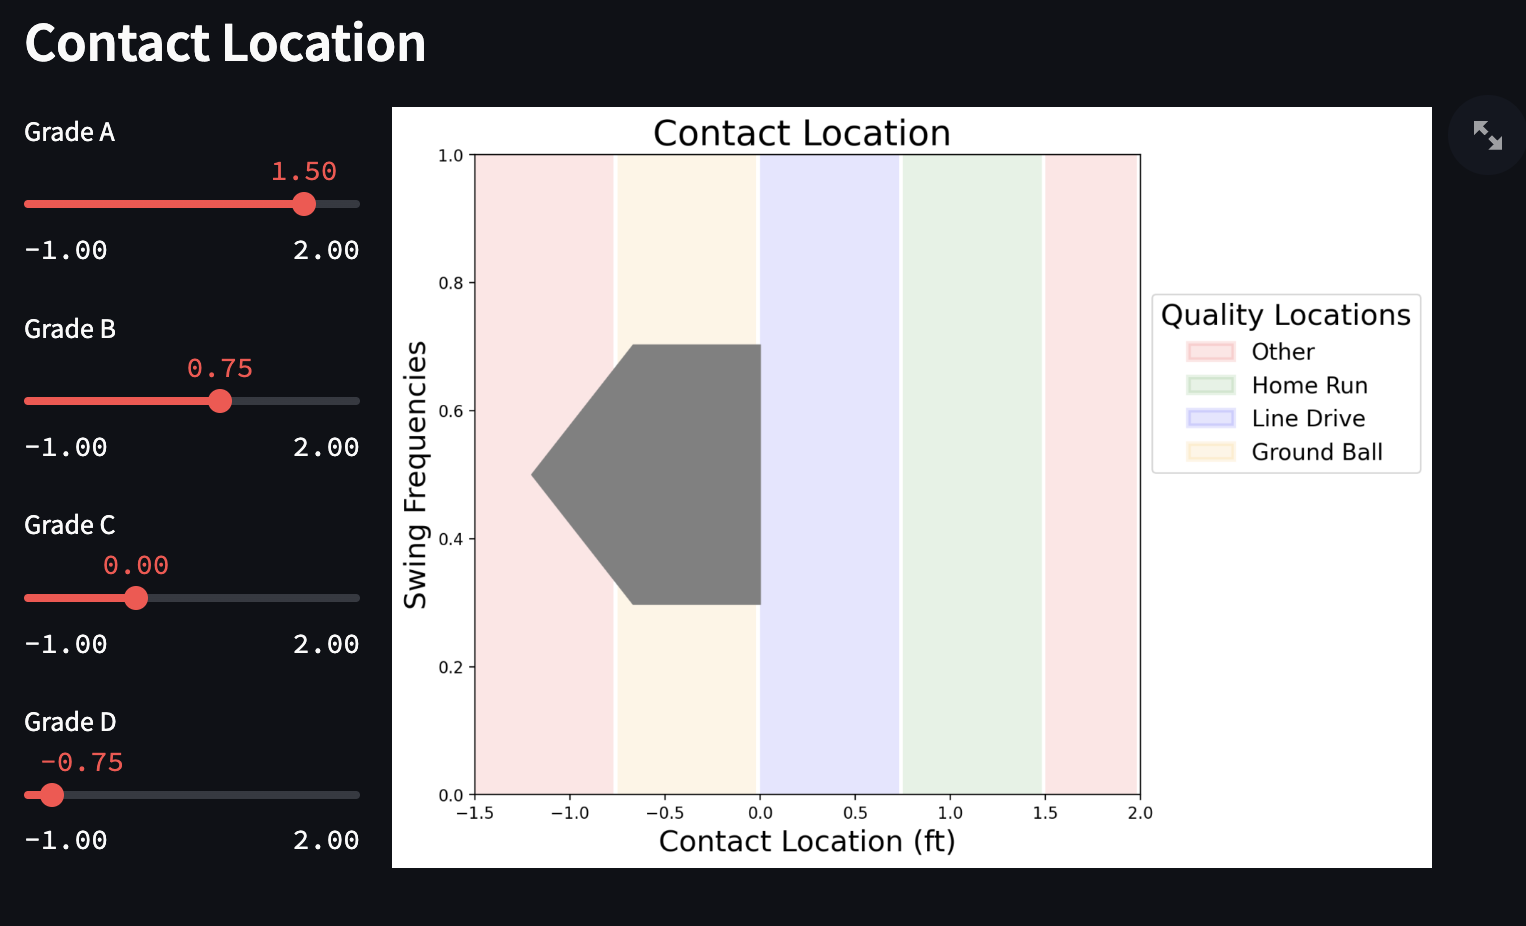
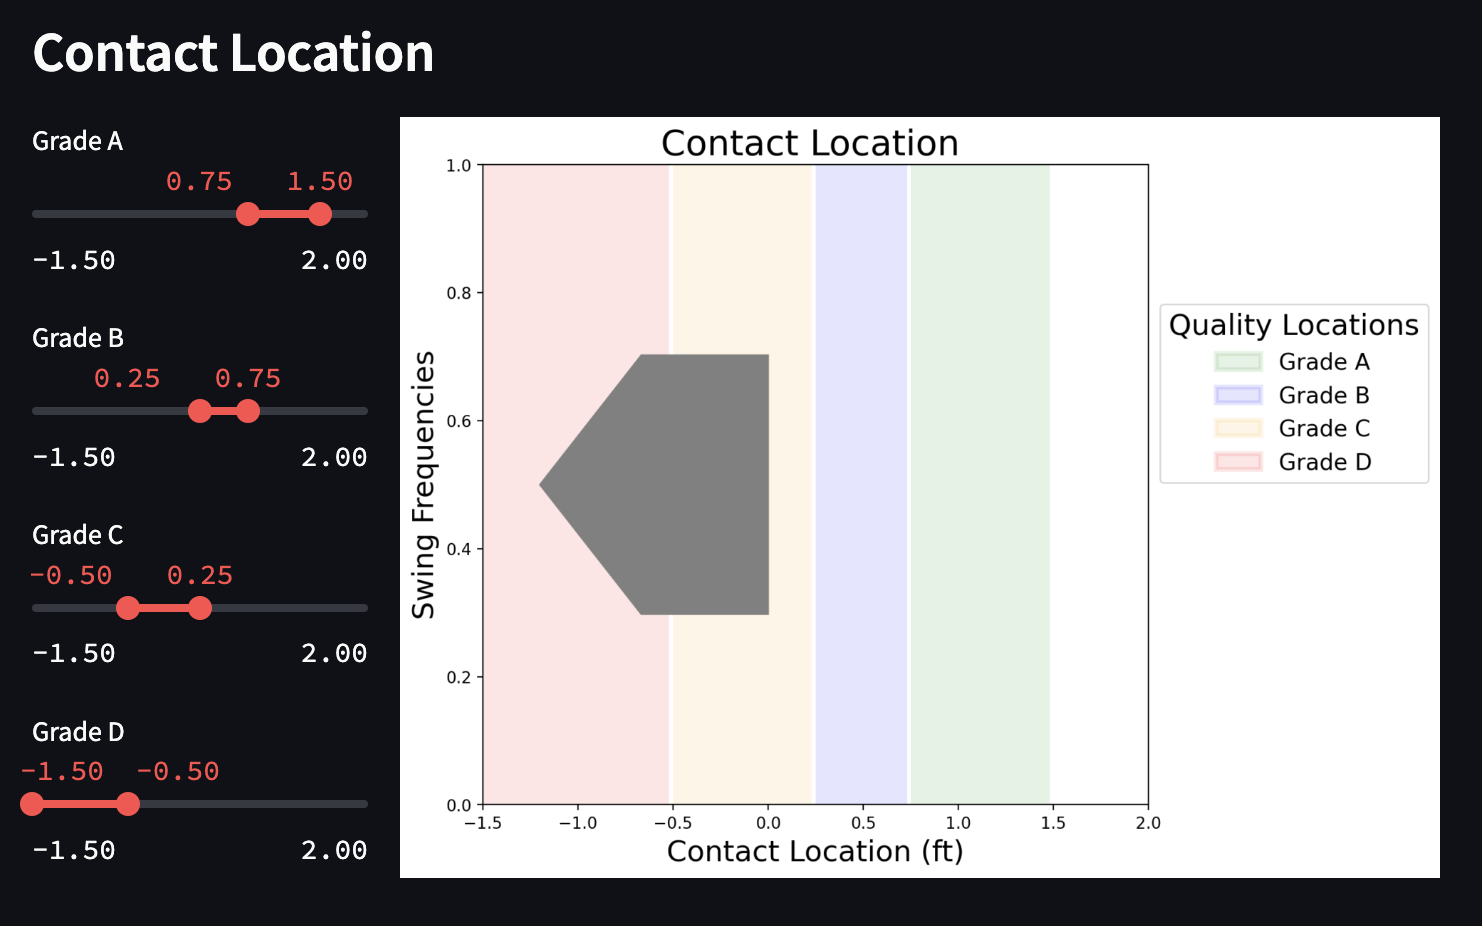
update docs

Changed region(s): [[0.0, 0.0302, 0.9933, 0.9676], [0.0, 0.121, 0.0931, 0.1814]]

diff --git a/src_deploy/streamlit_deploy.py b/src_deploy/streamlit_deploy.py
@@ -123,10 +123,14 @@ def display_scorecard():
     # collect widget values
     values = get_slider_values()
     min_swing_count = st.session_state["swing_count_default"]
+    
+    contact_locs = [locs[1] for locs in values["contact_locations"]]
+    top = [values["contact_locations"][-1][0]]
+    contact_locs.extend(top)
     # build scorecard with custom criteria
     df = generate_scorecard(
         data_folder,
-        [loc[1] for loc in values["contact_locations"]],
+        contact_locs,
         values["track_angles"],
         [loc[1] for loc in values["hunting_dists"]],
         [loc[1] for loc in values['swing_similarities']],
@@ -258,11 +262,15 @@ def contact_loc_plot(batter_id):
             "timing_grade"
         ].item()
         batter_timing = timing_metrics_df.query(f"batter == {batter_id}")
-        tops = [locs[1] for locs in get_slider_values()["contact_locations"]]
+
+        plot_locs = [locs[1] for locs in get_slider_values()["contact_locations"]]
+        top = [contact_location[-1][0]]
+        plot_locs.extend(top)
+
         loc_fig = viz_contact_loc(
             batter_timing,
             loc_grade,
-            tops,
+            plot_locs,
         )
         st.pyplot(loc_fig)
     except Exception as e:
@@ -310,9 +318,10 @@ def update_plots(batter_id):
             
 # -------------------------------------------------------
 # Initialize session state for sliders and dropdowns if not already set
+contact_locs_defaults = [(0.75, 1.5), (0.25, 0.75), (-0.5, 0.25), (-1.5, -0.5)]
 if "initialized" not in st.session_state:
     for i in range(4):
-        st.session_state[f"contact_location_{i}_default"] = (1.5 - 0.75 * (i + 1), 1.5 - 0.75 * i)
+        st.session_state[f"contact_location_{i}_default"] = contact_locs_defaults[i]
         st.session_state[f"hunting_{i}_default"] = (0.5 + 0.2 * i, 0.5 + 0.2 * (i + 1))
         st.session_state[f"track_angle_{i}_default"] = 5
         st.session_state[f"swing_similarity_{i}_default"] = (1 - 0.1 * (i + 1), 1 - 0.1 * i)
@@ -321,7 +330,7 @@ if "initialized" not in st.session_state:
     st.session_state["initialized"] = True
 
 # Main title
-st.title("Baseball Swing Metrics Dashboard")
+st.title("Baseball Swing Scouting Dashboard")
 
 # Tabs for UI
 tab_selection = st.sidebar.radio(
@@ -352,11 +361,14 @@ if tab_selection == "Customize Grading":
         ]
 
     with col2:
-        tops = [locs[1] for locs in contact_location]
+        plot_locs = [locs[1] for locs in contact_location]
+        top = [contact_location[-1][0]]
+        plot_locs.extend(top)
         try:
-            fig_location = viz_contact_loc(None, None, tops)
+            fig_location = viz_contact_loc(None, None, plot_locs)
             st.pyplot(fig_location)
         except Exception as e:
+            st.write(plot_locs)
             st.error(f"Error in viz_contact_loc: {e}")
 
     # Add some spacing

diff --git a/src_deploy/contact_loc.py b/src_deploy/contact_loc.py
@@ -24,6 +24,8 @@ def score_contact_loc(quality_locations, contact_loc):
         score = 3
     elif contact_loc > quality_locations[3]:
         score = 2
+    elif contact_loc > quality_locations[4]:
+        score = 1
     else:
         score = 0
     return score
@@ -118,11 +120,12 @@ def viz_contact_loc(batter_df, grade, quality_locations):
         (quality_locations[0], quality_locations[1]),
         (quality_locations[1], quality_locations[2]),
         (quality_locations[2], quality_locations[3]),
-        (quality_locations[3], x_min)
+        (quality_locations[3], quality_locations[4]),
+        (quality_locations[4], x_min),
     ]
     legend_patches = []
-    zones = ['Other', 'Grade A', 'Grade B', 'Grade C', 'Other']
-    zone_colors = ['red', 'green', 'blue', 'orange', 'red']
+    zones = ['Other', 'Grade A', 'Grade B', 'Grade C', 'Grade D', 'Other']
+    zone_colors = ['white', 'green', 'blue', 'orange', 'red', 'white']
     for i, range in enumerate(ranges):
         right = range[0] - 0.02
         left = range[1]
@@ -135,7 +138,7 @@ def viz_contact_loc(batter_df, grade, quality_locations):
         legend_patches.append(rect)
 
     # Add two legends
-    quality_legend = plt.legend(legend_patches[1:], zones[1:], loc='upper left',
+    quality_legend = plt.legend(legend_patches[1:-1], zones[1:-1], loc='upper left',
                                 bbox_to_anchor=(1, 0.8), fontsize=font3['size'],
                                 title='Quality Locations', title_fontsize=font2['size'])
     
@@ -163,7 +166,7 @@ def viz_contact_loc(batter_df, grade, quality_locations):
 if __name__ == '__main__':
 
     timing_metrics_df = pd.read_csv('../data/dataframes/timing_metrics_df.csv')
-    qual_locs = [1.5, 0.9, 0.2, -0.5]
+    qual_locs = [1.5, 0.9, 0.2, -0.5, -1.0]
     timing_score_df = contact_loc_scorecard(qual_locs, timing_metrics_df)
 
     batter_list = [849653732, 558675411]

diff --git a/docs/Tool Details.md b/docs/Tool Details.md
@@ -1,5 +1,5 @@
 ## Customization Tool
-The swing metrics [dashboard](https://wisd2024-swing-metric-dashboard.streamlit.app/) allows scouts to customize the grades for each of the metrics. They can set the acceptable quality contact locations, pitch hunting radius, tracking angle ranges, and swing similairty percent good swings. In addition to updating the grades, the user can change the ranking of the batters by selecting the prefered priority for each of the metrics. The tool will provide a list of all the batters with a sufficient number of swings and show the grades for each of the metrics. The user can then select a batter to view the visuals for each of their metrics. 
+The swing scouting [dashboard](https://wisd2024-swing-metric-dashboard.streamlit.app/) allows scouts to customize the grades for each of the metrics. They can set the acceptable quality contact locations, pitch hunting radius, tracking angle ranges, and swing similairty percent good swings. In addition to updating the grades, the user can change the ranking of the batters by selecting the prefered priority for each of the metrics. The tool will provide a list of all the batters with a sufficient number of swings and show the grades for each of the metrics. The user can then select a batter to view the visuals for each of their metrics. 
 
 ### Navigation
 The tool is navigated with radio buttons in the sidebar. The first tab is the Custom Grading page. When switching to the Scorecard tab the metric priority and swing count widgets will become available in the side bar. Similarly, the batter selection dropdown becomes avaiable in the side bar on the Batter Plots tab.
@@ -10,24 +10,34 @@ The tool is navigated with radio buttons in the sidebar. The first tab is the Cu
 The first section in the tool allows the user to set the custom grading ranges. 
 
 **Contact Location:**
-The contact location grading ranges are defaulted to the ranges correlating with home runs, line drives, and grounders.[^3] The sliders can be moved to set the target locations. All contact locations between Grade A and B are assigned a score of 4 points, between Grade B and C get 3 points, between Grade C and D get 2 points, and all other locations are given 0 points. The final grade of the batter is average of all the swing scores. When setting the sliders, the Grade A value should be the highest and each subsequent grade should be lower than the previous to avoid errors.
+The contact location grading ranges are defaulted to the ranges correlating with home runs, line drives, and grounders.[^3] The sliders can be moved to set the target locations. Each swing is given a grade based on the range it falls into. The final grade of the batter is average of all the swing scores. 
 
 ![Contact Location Grades](../images/tool/contact_location_widget.png)
 
 **Pitch Hunting Radius:**
-Similar to the contact location grading ranges, the hunting ranges are set using a slider and assigned a score based on the assigned grade. Swings less than the distance for Grade A are awarded 4 points, between Grade A and B get 3 point, between Grade B and C get 2 points, and between Grade C and D get 1 point. The final hunting grade is also the average of all the swing scores. When setting the sliders, the Grade A value should be the lowest and each subsequent grade should be higher than the previous to avoid errors.
+Similar to the contact location grading ranges, the hunting ranges are set using a slider and assigned a score based on the assigned grade. The final hunting grade is also the average of all the swing scores. When setting the sliders, the Grade A values should be the lowest and each subsequent grade should be higher than the previous to avoid errors.
 
 ![Pitch Hunting Radius Grades](../images/tool/hunting_widget.png)
 
 **Tracking Angle Ranges:**
-The tracking angle tool allows the user to select from a set of preset angle widths. These widths determine the range above and below the pitch that is assigned a particular score. For example, if Grade A is set to 2.5 and Grade B is set to 5 then swings within 2.5 degrees of the pitch angle (above or below) will be awarded 4 points, and swings between 2.5 and 7.5 degrees of the pitch angle (above or below) will be assigned 3 points. This continues with Grade C receiving 2 points and Grade D receiving 1 point. As with the contact location and pitch hunting, the average of all the swing scores gives the final tracking angle grade. There is no risk of errors when setting these values, but the user should consider that smaller values will leave more swings outside of the graded ranges, resulting in no points awarded for those swings and lower overall grades.
+The tracking angle tool allows the user to select from a set of preset angle widths. These widths determine the range above and below the pitch that is assigned a particular score. For example, if Grade A is set to 2.5 and Grade B is set to 5 then swings within 2.5 degrees of the pitch angle (above or below) will be awarded 4 points, and swings between 2.5 and 7.5 degrees of the pitch angle (above or below) will be assigned 3 points. As with the contact location and pitch hunting, the average of all the swing scores gives the final tracking angle grade. There is no risk of errors when setting these values, but the user should consider that smaller values will leave more swings outside of the graded ranges, resulting in no points awarded for those swings and lower overall grades.
 
 ![Tracking Angle Grades](../images/tool/tracking_angle_widget.png)
 
 **Swing Similarity:**
-The swing similarity grade is calculated differently than all of the other metrics. The score is determined by the percent of the batter's swings that are within two standard deviations of the mean. The swing similarity grade can be customized by setting the perecent ranges that result in each grade. Each grade is assigned for scores equal to or above the customized value. 
+The swing similarity grade is calculated differently than all of the other metrics. The score is determined by the percent of the batter's swings that are within two standard deviations of the mean. The swing similarity grade can be customized by setting the perecent ranges that result in each grade. 
 
-![Swing Similarity Grades](images/tool/swing_similarity_widget.png)
+![Swing Similarity Grades](../images/tool/swing_similarity_widget.png)
+
+**Sliders:**
+The sliders will update to keep the ranges connected, but the user will need to ensure ranges are small enough to keep all four grades - sliders should not be set with one range encompasing another range to avoid errors.
+
+**Grades:**
+Contact location, pitch hunting, and tracking angle metrics assign a score for each swing based on the following grades:
+- Grade A = 4 points
+- Grade B = 3 points
+- Grade C = 2 points
+- Grade D = 1 point
 
 ### Set Grading Priorities and Minimum Swing Count
 After setting all of the grading values, the user is provided the opportunity to change the priority order of the metrics for ranking the batters and to restrict the batter list to only batters with a minimum number of swings. The order of the metrics should reflect the most important values to the user. A scout that wants patient players who only swing at pitches they can hit should prioritize pitch hunting, while a scout that wants players with home run swings should prioritize contact location. The swing count minimum allows the user to set a base of how many swings each batter must have. Larger numbers of swings will reduce the variability in scores. 
@@ -35,12 +45,12 @@ After setting all of the grading values, the user is provided the opportunity to
 ![Priority and Swing Count](../images/tool/priority_widget.png)
 
 ### Batter Scorecard
-The ranked batter scorecard displays the list of batters and their scores on each metrics. The order of the batters is determined by the priorities set by the user. 
+The ranked batter scorecard displays the list of batters and their scores on each metrics. The order of the batters is determined by the priorities set by the user, and the order of columns will reflect the user selected metric priorities. For example, in the image below the user is most interested in the hunting and contact location grades.
 
 ![Batter Scorecard](../images/tool/batter_scorecard.png)
 
 ### Batter Selection and Visualization
-Finally, in the Batter Plots tab, the user selects a batter from the ordered list to display the metrics visuals. This allows the user to verify the performance of the selected batter. 
+Finally, in the Batter Plots tab, the user selects a batter from the ordered list to display the metrics visuals. This allows the user to verify the performance of the selected batter. The visuals will be sorted in the order of the user selected metric priorities.
 
 
 ## Footnotes
